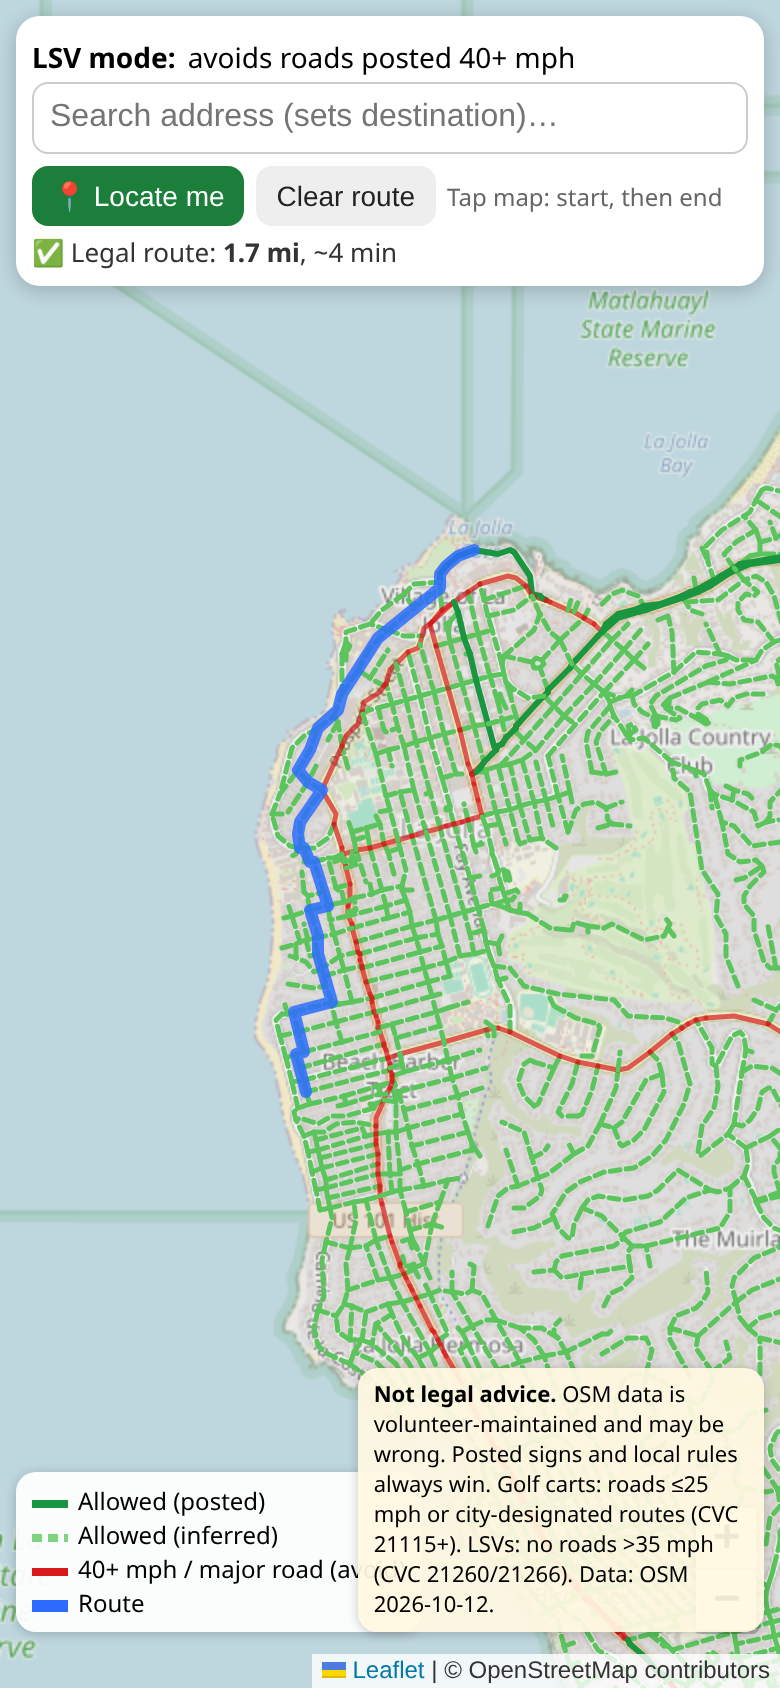
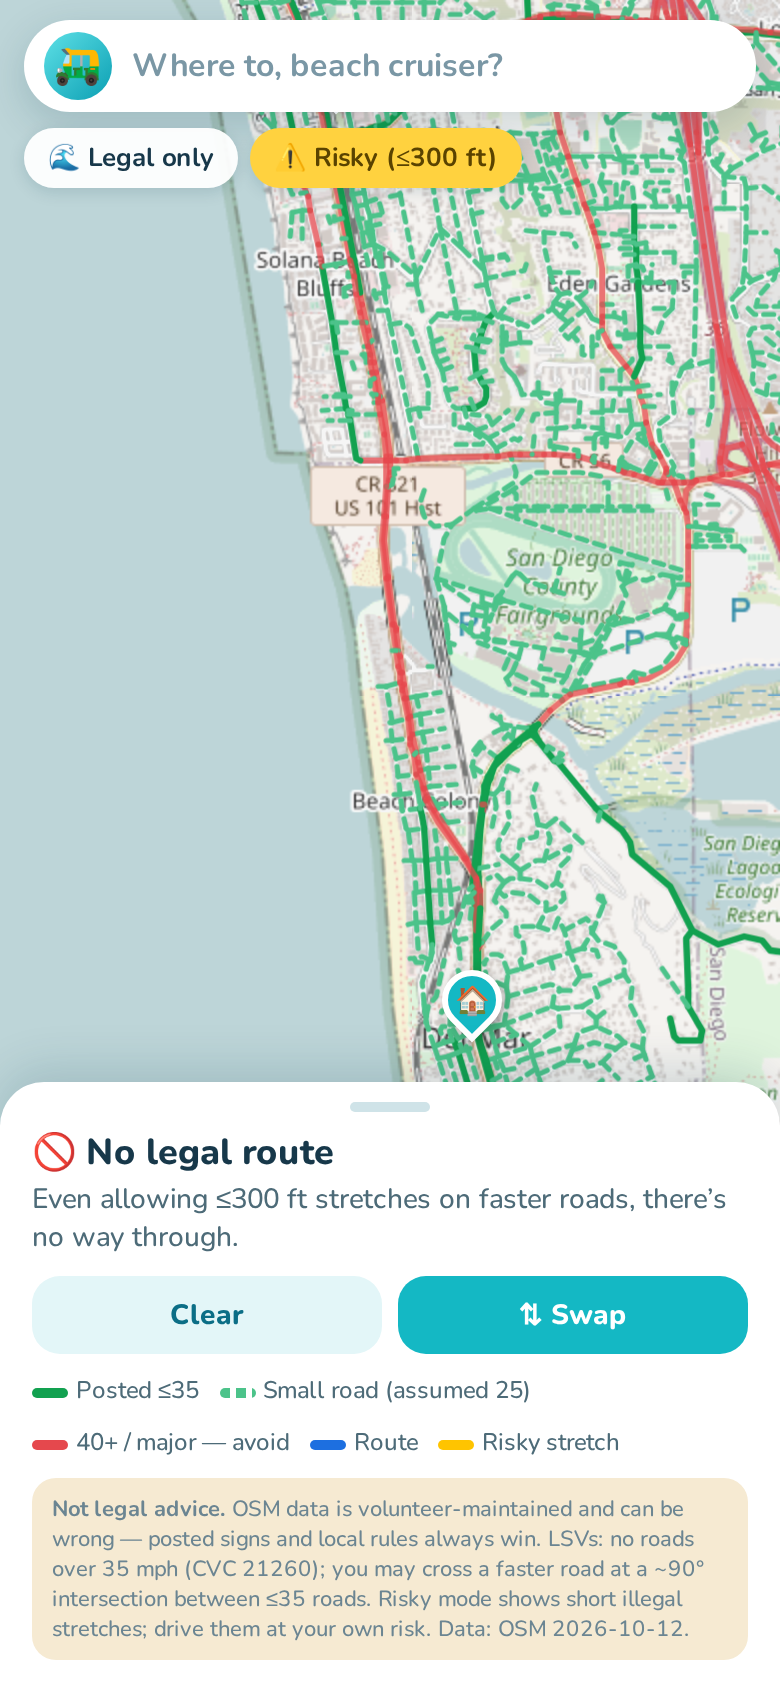
v1.3: risky mode (<=300ft forbidden stretches), beachy UI refresh, legal notes

diff --git a/public/app.js b/public/app.js
@@ -1,63 +1,84 @@
-const map=L.map('map',{preferCanvas:true,zoomControl:false}).setView([32.84,-117.27],13);
-L.control.zoom({position:'bottomright'}).addTo(map);
-L.tileLayer('https://tile.openstreetmap.org/{z}/{x}/{y}.png',{maxZoom:19,opacity:.6,attribution:'© OpenStreetMap contributors'}).addTo(map);
+const map=L.map('map',{preferCanvas:true,zoomControl:false,attributionControl:true}).setView([32.84,-117.27],14);
+L.tileLayer('https://tile.openstreetmap.org/{z}/{x}/{y}.png',{maxZoom:19,attribution:'© OpenStreetMap contributors'}).addTo(map);
 const renderer=L.canvas({tolerance:8});
-let D,mode=39,allowUnk=false,layer,nodes={},adj={},start=null,end=null,routeLine,mk=[];
-const $=id=>document.getElementById(id), st=t=>$('status').innerHTML=t;
-// status: 0 allowed posted, 1 allowed inferred, 2 unknown, 3 forbidden
-function cls(s){const sp=s[2],src=s[3];if(sp==null)return 2;if(sp>mode)return 3;return src==='t'?0:1}
-const STY=[{color:'#1a9641',weight:3},{color:'#5cc45c',weight:2.5,dashArray:'5 3'},{color:'#f0a500',weight:3},{color:'#d7191c',weight:2.5,opacity:.7}];
+const $=id=>document.getElementById(id);
+const RISKY_MAX=91.44; // 300 ft
+let D,risky=false,layer,nodes={},adj={},start=null,end=null,routeG=null,mk=[];
+// cls: 0 posted ok, 1 assumed ok, 3 forbidden (posted >=40 or untagged major)
+const cls=s=>(s[2]==null||s[2]>35)?3:(s[3]==='t'?0:1);
+const STY=[{color:'#12a150',weight:3.2},{color:'#4cc38a',weight:2.6,dashArray:'5 4'},null,{color:'#e5484d',weight:3,opacity:.75}];
 const MAJOR=new Set(['motorway','motorway_link','trunk','trunk_link','primary','primary_link','secondary','secondary_link','tertiary','tertiary_link']);
 let buckets={},shown={};const G=0.02;
 function bucketize(){D.segs.forEach((s,i)=>{const p=s[7][0],k=Math.floor(p[0]/G)+','+Math.floor(p[1]/G);(buckets[k]||(buckets[k]=[])).push(i)})}
-function draw(){if(layer)map.removeLayer(layer);layer=L.layerGroup().addTo(map);shown={};refresh();buildGraph();if(start&&end)route()}
+function draw(){layer=L.layerGroup().addTo(map);refresh()}
 function refresh(){const b=map.getBounds().pad(0.2),z=map.getZoom(),minor=z>=14;
- const x0=Math.floor(b.getWest()/G),x1=Math.floor(b.getEast()/G),y0=Math.floor(b.getSouth()/G),y1=Math.floor(b.getNorth()/G);const want={};
+ const x0=Math.floor(b.getWest()/G),x1=Math.floor(b.getEast()/G),y0=Math.floor(b.getSouth()/G),y1=Math.floor(b.getNorth()/G),want={};
  for(let x=x0;x<=x1;x++)for(let y=y0;y<=y1;y++){const k=x+','+y;if(buckets[k])want[k+(minor?'m':'')]=k}
  for(const k in shown)if(!(k in want)){layer.removeLayer(shown[k]);delete shown[k]}
  for(const k in want)if(!shown[k]){const g=L.layerGroup();for(const i of buckets[want[k]]){const s=D.segs[i];if(!minor&&!MAJOR.has(s[1]))continue;g.addLayer(mkLine(s))}shown[k]=g;layer.addLayer(g)}}
 map.on('moveend',()=>{if(D)refresh()});
-function mkLine(s){{const c=cls(s);const pl=L.polyline(s[7].map(p=>[p[1],p[0]]),{...STY[c],renderer});pl._s=s;
-  pl.on('click',e=>{L.DomEvent.stopPropagation(e);const sp=s[2];const lbl=['Allowed (posted limit)','Allowed (limit inferred)','Unknown – speed limit not recorded','Not allowed (40+ mph or major road)'][cls(s)];
-   L.popup().setLatLng(e.latlng).setContent(`<b>${D.names[s[0]]||'(unnamed)'}</b><br>Type: ${s[1]}<br>Speed: ${sp==null?'not tagged':sp==99?'not tagged (major road, assumed >35)':sp+' mph'}<br>Source: ${s[3]==='t'?'OSM maxspeed tag':sp==null?'—':'inferred from road type'}<br><b>${lbl}</b>`).openOn(map)});
-  return pl}}
+function mkLine(s){const c=cls(s);const pl=L.polyline(s[7].map(p=>[p[1],p[0]]),{...STY[c],renderer});
+ pl.on('click',e=>{L.DomEvent.stopPropagation(e);const sp=s[2];
+  L.popup().setLatLng(e.latlng).setContent(`<b>${D.names[s[0]]||'(unnamed road)'}</b><br>${s[1].replace('_',' ')} · ${sp==null||sp==99?'no limit recorded':sp+' mph'}${s[3]==='t'?'':' (assumed)'}<br><b style="color:${c===3?'#e5484d':'#12a150'}">${c===3?'Avoid: 40+ mph or major road':'OK for LSV'}</b>`).openOn(map)});return pl}
 function hav(a,b){const R=6371000,r=Math.PI/180,dl=(b[1]-a[1])*r,dn=(b[0]-a[0])*r,x=Math.sin(dl/2)**2+Math.cos(a[1]*r)*Math.cos(b[1]*r)*Math.sin(dn/2)**2;return 2*R*Math.asin(Math.sqrt(x))}
 function len(p){let l=0;for(let i=1;i<p.length;i++)l+=hav(p[i-1],p[i]);return l}
-let fast=new Set();function buildGraph(){adj={};nodes={};fast=new Set();D.segs.forEach(s=>{if(s[3]==='t'&&s[2]>=40){fast.add(s[5]);fast.add(s[6])}});
- D.segs.forEach((s,i)=>{const c=cls(s);if(c===3||(c===2&&!allowUnk))return;const a=s[5],b=s[6],p=s[7];
-  nodes[a]=p[0];nodes[b]=p[p.length-1];const L_=s._len??(s._len=len(p));
-  if(s[4]>=0)(adj[a]||(adj[a]=[])).push([b,L_,i,false]);if(s[4]<=0)(adj[b]||(adj[b]=[])).push([a,L_,i,true])})}
-function nearest(ll){let best=null,bd=1e18;for(const k in nodes){if(!adj[k])continue;const d=hav([ll.lng,ll.lat],nodes[k]);if(d<bd){bd=d;best=k}}return [best,bd]}
-// A* with binary heap
-function astar(s,t){const g={[s]:0},prev={},T=nodes[t],h=[[hav(nodes[s],T),s]];const done=new Set();
+let fast=new Set();
+function buildGraph(){adj={};nodes={};fast=new Set();
+ D.segs.forEach((s,i)=>{const c=cls(s),a=s[5],b=s[6],p=s[7];s._len??=len(p);nodes[a]=p[0];nodes[b]=p[p.length-1];
+  if(s[3]==='t'&&s[2]>=40){fast.add(a);fast.add(b)}
+  const f=c===3;
+  if(s[4]>=0)(adj[a]||(adj[a]=[])).push([b,s._len,i,false,f]);if(s[4]<=0)(adj[b]||(adj[b]=[])).push([a,s._len,i,true,f])})}
+function nearest(ll){let best=null,bd=1e18;const q=[ll.lng,ll.lat];for(const k in nodes){if(!(adj[k]||[]).some(e=>!e[4]))continue;const d=hav(q,nodes[k]);if(d<bd){bd=d;best=+k}}return [best,bd]}
+// A* over (node, metres-of-current-forbidden-run). Legal mode: forbidden edges never used.
+// Crossing a forbidden road = passing through a shared node between two allowed edges (CVC 21260(b)(1)).
+function astar(s,t){const key=(n,r)=>n+'|'+Math.round(r);const T=nodes[t];const g=new Map(),prev=new Map();const k0=key(s,0);g.set(k0,0);
+ const h=[[hav(nodes[s],T),s,0,k0]],done=new Set();
  const push=x=>{h.push(x);let i=h.length-1;while(i>0){const p=(i-1)>>1;if(h[p][0]<=h[i][0])break;[h[p],h[i]]=[h[i],h[p]];i=p}};
  const pop=()=>{const top=h[0],l=h.pop();if(h.length){h[0]=l;let i=0;for(;;){let a=2*i+1,b=a+1,m=i;if(a<h.length&&h[a][0]<h[m][0])m=a;if(b<h.length&&h[b][0]<h[m][0])m=b;if(m===i)break;[h[m],h[i]]=[h[i],h[m]];i=m}}return top};
- while(h.length){const [,u]=pop();if(u==t)break;if(done.has(u))continue;done.add(u);
-  for(const [v,w,si,rev] of adj[u]||[]){const ng=g[u]+w+(fast.has(+v)?150:0);if(g[v]===undefined||ng<g[v]){g[v]=ng;prev[v]=[u,si,rev];push([ng+hav(nodes[v],T),v])}}}
- if(g[t]===undefined)return null;const pts=[];let x=t;while(x!=s){const [u,si,rev]=prev[x];let p=D.segs[si][7];if(!rev)p=p.slice().reverse();pts.push(...p);x=u}
- pts.reverse();return {dist:len(pts),pts}}
-function route(){if(routeLine)map.removeLayer(routeLine);const [a,da]=nearest(start),[b,db]=nearest(end);
- if(!a||!b){st('No legal roads nearby.');return}
- const r=astar(a,b);if(!r){st(`❌ No legal route in <b>${'LSV'}</b> mode.`);return null}
- routeLine=L.polyline(r.pts.map(p=>[p[1],p[0]]),{color:'#2b6cff',weight:6,opacity:.85}).addTo(map);
- const mi=r.dist/1609.34,min=mi/(25)*60;
- st(`✅ Legal route: <b>${mi.toFixed(1)} mi</b>, ~${Math.round(min)} min${da>150||db>150?' (start/end snapped to nearest legal road)':''}`);
- window.lastRoute={mi,min};return r}
-function setPt(ll){if(!start||end){clearR();start=ll;mk.push(L.marker(ll).addTo(map).bindTooltip('Start'));st('Now tap the destination.')}
- else{end=ll;mk.push(L.marker(ll).addTo(map).bindTooltip('End'));route()}}
-function clearR(){start=end=null;mk.forEach(m=>map.removeLayer(m));mk=[];if(routeLine)map.removeLayer(routeLine);routeLine=null;st('Tap map to set start.')}
-map.on('click',e=>setPt(e.latlng));
-$('clr').onclick=clearR;
-
-
+ let goal=null;
+ while(h.length){const [,u,run,ku]=pop();if(done.has(ku))continue;done.add(ku);if(u===t&&run===0){goal=ku;break}
+  for(const [v,w,si,rev,f] of adj[u]||[]){let nr,cost=w;
+   if(f){if(!risky)continue;nr=run+w;if(nr>RISKY_MAX)continue;cost=w*6+60}else{nr=0;if(fast.has(v))cost+=150}
+   const kv=key(v,nr),ng=g.get(ku)+cost;if(!g.has(kv)||ng<g.get(kv)){g.set(kv,ng);prev.set(kv,[ku,si,rev]);push([ng+hav(nodes[v],T),v,nr,kv])}}}
+ if(!goal)return null;const parts=[];let x=goal;while(x!==k0){const [pk,si,rev]=prev.get(x);parts.push([si,rev]);x=pk}parts.reverse();return parts}
+function summarize(parts){let dist=0,stretches=[],cur=null,line=[];const legs=[];
+ for(const [si,rev] of parts){const s=D.segs[si];let p=s[7];if(rev)p=p.slice().reverse();dist+=s._len;const f=cls(s)===3;
+  legs.push({p,f,s});
+  if(f){if(!cur){cur={len:0,name:D.names[s[0]]||'unnamed road',sp:s[2],p:[]};stretches.push(cur)}cur.len+=s._len;cur.p.push(...p)}else cur=null}
+ // turn-by-turn by street name
+ const steps=[];for(const l of legs){const n=D.names[l.s[0]]||'unnamed road';const last=steps[steps.length-1];if(last&&last.n===n&&last.f===l.f)last.d+=l.s._len;else steps.push({n,d:l.s._len,f:l.f,sp:l.s[2]})}
+ return {dist,stretches,legs,steps}}
+const ft=m=>Math.round(m*3.281)+' ft',mi=m=>(m/1609.34).toFixed(1)+' mi';
+function route(){if(routeG)map.removeLayer(routeG);routeG=null;const [a,da]=nearest(start),[b,db]=nearest(end);
+ const parts=a!=null&&b!=null?astar(a,b):null;$('acts').style.display='flex';
+ if(!parts){$('title').innerHTML='🚫 No legal route';$('sub').innerHTML=risky?'Even allowing ≤300 ft stretches on faster roads, there’s no way through.':'Every way there uses a 40+ mph road. Try <b>⚠ Risky</b> mode to see short-stretch options.';$('steps').innerHTML='';return null}
+ const r=summarize(parts);routeG=L.layerGroup().addTo(map);
+ const all=[];r.legs.forEach(l=>all.push(...l.p));
+ L.polyline(all.map(p=>[p[1],p[0]]),{color:'#fff',weight:10,opacity:.9}).addTo(routeG);
+ L.polyline(all.map(p=>[p[1],p[0]]),{color:'#1d6fe0',weight:6}).addTo(routeG);
+ r.stretches.forEach(s=>L.polyline(s.p.map(p=>[p[1],p[0]]),{color:'#ffc400',weight:8}).addTo(routeG).bindTooltip(`Risky: ${ft(s.len)} on ${s.name}`));
+ const min=Math.max(1,Math.round(r.dist/1609.34/22*60));
+ $('title').innerHTML=r.stretches.length?`⚠ ${min} min · ${mi(r.dist)}`:`🛺 ${min} min · ${mi(r.dist)}`;
+ $('sub').innerHTML=r.stretches.length?`Includes <b>${r.stretches.length}</b> risky stretch${r.stretches.length>1?'es':''} (${r.stretches.map(s=>ft(s.len)).join(', ')}) on faster roads.`:'All on roads ≤35 mph 🌴'+(da>150||db>150?' · snapped to nearest legal road':'');
+ $('steps').innerHTML=r.steps.filter(s=>s.d>15).map(s=>`<div class="st"><span class="badge ${s.f?'y':''}">${s.f?ft(s.d):mi(s.d)}</span><span>${s.f?'⚠ Risky: ':''}${s.n}${s.f&&s.sp&&s.sp!=99?` (${s.sp} mph)`:''}</span></div>`).join('');
+ window.lastRoute={mi:+(r.dist/1609.34).toFixed(2),min,risky:r.stretches.map(s=>({road:s.name,ft:Math.round(s.len*3.281)}))};return r}
+const pinIcon=(c,e)=>L.divIcon({className:'',html:`<div class="pin" style="background:${c}"><span>${e}</span></div>`,iconSize:[30,30],iconAnchor:[15,30]});
+function setPt(ll){if(!start||end){clearR();start=ll;mk.push(L.marker(ll,{icon:pinIcon('#14b8c4','🏠')}).addTo(map));$('title').innerHTML='📍 Start set';$('sub').textContent='Tap the map or search for where you’re headed.'}
+ else{end=ll;mk.push(L.marker(ll,{icon:pinIcon('#ff7a59','🏖')}).addTo(map));route()}}
+function clearR(){start=end=null;mk.forEach(m=>map.removeLayer(m));mk=[];if(routeG)map.removeLayer(routeG);routeG=null;$('steps').innerHTML='';$('acts').style.display='none';$('title').innerHTML='🏖 Golf Cart Maps';$('sub').textContent='Tap the map to set a start, or hit 📍.'}
+map.on('click',e=>setPt(e.latlng));$('clr').onclick=clearR;
+$('swap').onclick=()=>{if(start&&end){const a=end,b=start;clearR();setPt(a);setPt(b)}};
+function setRisky(v){risky=v;$('cRisk').classList.toggle('on',v);$('cNorm').classList.toggle('on',!v);if(start&&end)route()}
+$('cNorm').onclick=()=>setRisky(false);$('cRisk').onclick=()=>setRisky(true);
+let legendOn=true;$('lay').onclick=()=>{legendOn=!legendOn;$('legend').style.display=$('disc').style.display=legendOn?'':'none'};
 let me;$('loc').onclick=()=>navigator.geolocation.getCurrentPosition(p=>{const ll=L.latLng(p.coords.latitude,p.coords.longitude);
- if(me)map.removeLayer(me);me=L.circleMarker(ll,{radius:8,color:'#fff',fillColor:'#2b6cff',fillOpacity:1,weight:3}).addTo(map);map.setView(ll,16);
- clearR();start=ll;mk.push(L.marker(ll).addTo(map).bindTooltip('Start (you)'));st('Start = your location. Tap or search a destination.')},e=>st('Location unavailable: '+e.message),{enableHighAccuracy:true});
+ if(me)map.removeLayer(me);me=L.circleMarker(ll,{radius:8,color:'#fff',fillColor:'#1d6fe0',fillOpacity:1,weight:3}).addTo(map);map.setView(ll,16);clearR();start=ll;
+ mk.push(L.marker(ll,{icon:pinIcon('#14b8c4','🛺')}).addTo(map));$('title').innerHTML='📍 Starting from you';$('sub').textContent='Tap or search a destination.'},e=>{$('sub').textContent='Location unavailable: '+e.message},{enableHighAccuracy:true});
 let tmr,lastQ=0;$('q').oninput=e=>{clearTimeout(tmr);const v=e.target.value.trim();if(v.length<4){$('sugg').style.display='none';return}
- tmr=setTimeout(async()=>{const wait=Math.max(0,1100-(Date.now()-lastQ));await new Promise(r=>setTimeout(r,wait));lastQ=Date.now();
-  const b=D.meta.bbox;const r=await fetch(`https://nominatim.openstreetmap.org/search?format=json&limit=5&bounded=1&viewbox=${b[1]},${b[2]},${b[3]},${b[0]}&q=${encodeURIComponent(v)}`);
-  const j=await r.json();const sg=$('sugg');sg.innerHTML='';sg.style.display=j.length?'block':'none';
-  j.forEach(x=>{const d=document.createElement('div');d.textContent=x.display_name;d.onclick=()=>{sg.style.display='none';$('q').value=x.display_name.split(',')[0];
-   const ll=L.latLng(+x.lat,+x.lon);map.setView(ll,15);if(start&&!end)setPt(ll);else if(start&&end){end=null;mk.pop()&&0;setPt(ll)}else{setPt(ll);st('Start set from search. Tap or search destination, or 📍 for your location.')}};sg.appendChild(d)})},700)};
-window.testRoute=(a,b)=>{buildGraph();clearR();start=L.latLng(a);end=L.latLng(b);const r=route();return r?{mi:+(r.dist/1609.34).toFixed(2),min:Math.round(window.lastRoute.min)}:null};
-fetch('data/roads.json').then(r=>r.json()).then(j=>{D=j;const s=j.meta.stats;$('dmeta').textContent=`Data: OSM ${j.meta.generated}.`;bucketize();draw();st('Tap map to set start, or 📍 Locate me.');window.ready=true});
+ tmr=setTimeout(async()=>{await new Promise(r=>setTimeout(r,Math.max(0,1100-(Date.now()-lastQ))));lastQ=Date.now();const b=D.meta.bbox;
+  const j=await (await fetch(`https://nominatim.openstreetmap.org/search?format=json&limit=5&bounded=1&viewbox=${b[1]},${b[2]},${b[3]},${b[0]}&q=${encodeURIComponent(v)}`)).json();
+  const sg=$('sugg');sg.innerHTML='';sg.style.display=j.length?'block':'none';
+  j.forEach(x=>{const d=document.createElement('div');d.textContent='📍 '+x.display_name.split(',').slice(0,3).join(',');d.onclick=()=>{sg.style.display='none';$('q').value=x.display_name.split(',')[0];$('q').blur();
+   const ll=L.latLng(+x.lat,+x.lon);map.setView(ll,15);if(start&&end){const s=start;clearR();setPt(s)}setPt(ll)};sg.appendChild(d)})},700)};
+window.testRoute=(a,b,rk=false)=>{risky=rk;clearR();start=L.latLng(a);mk.push(L.marker(start,{icon:pinIcon('#14b8c4','🏠')}).addTo(map));end=L.latLng(b);mk.push(L.marker(end,{icon:pinIcon('#ff7a59','🏖')}).addTo(map));const r=route();return r?window.lastRoute:null};
+fetch('data/roads.json').then(r=>r.json()).then(j=>{D=j;$('dmeta').textContent=`Data: OSM ${j.meta.generated}.`;bucketize();buildGraph();draw();clearR();window.ready=true});

diff --git a/public/index.html b/public/index.html
@@ -1,36 +1,54 @@
 <!doctype html><html lang="en"><head><meta charset="utf-8">
 <meta name="viewport" content="width=device-width,initial-scale=1,viewport-fit=cover">
 <title>Golf Cart Maps</title><link rel="manifest" href="manifest.webmanifest">
-<meta name="theme-color" content="#1b7f3b"><meta name="apple-mobile-web-app-capable" content="yes">
+<meta name="theme-color" content="#e8f7f8"><meta name="apple-mobile-web-app-capable" content="yes"><meta name="apple-mobile-web-app-status-bar-style" content="default">
 <link rel="apple-touch-icon" href="icon-192.png">
+<link rel="preconnect" href="https://fonts.googleapis.com"><link href="https://fonts.googleapis.com/css2?family=Nunito:wght@500;700;800&display=swap" rel="stylesheet">
 <link rel="stylesheet" href="https://unpkg.com/leaflet@1.9.4/dist/leaflet.css">
 <style>
-html,body{margin:0;height:100%;font-family:-apple-system,system-ui,sans-serif}
-#map{position:absolute;inset:0}
-#panel{position:absolute;z-index:1000;top:env(safe-area-inset-top,0);left:0;right:0;margin:8px;background:#fff;border-radius:12px;box-shadow:0 2px 10px #0003;padding:8px;font-size:14px}
-#panel input[type=text]{width:100%;box-sizing:border-box;padding:8px;font-size:16px;border:1px solid #ccc;border-radius:8px;margin:2px 0}
-.row{display:flex;gap:6px;align-items:center;flex-wrap:wrap;margin-top:4px}
-button{padding:7px 10px;border:0;border-radius:8px;background:#1b7f3b;color:#fff;font-size:14px}
-button.alt{background:#eee;color:#222}.seg button{background:#eee;color:#222}.seg button.on{background:#1b7f3b;color:#fff}
-#sugg{background:#fff;border:1px solid #ddd;border-radius:8px;max-height:180px;overflow:auto;display:none}
-#sugg div{padding:6px;border-bottom:1px solid #eee}
-#legend{position:absolute;z-index:1000;bottom:28px;left:8px;background:#fffe;border-radius:10px;padding:6px 8px;font-size:12px;box-shadow:0 1px 6px #0003}
-.sw{display:inline-block;width:18px;height:4px;margin-right:5px;vertical-align:middle}
-#disc{position:absolute;z-index:1000;bottom:28px;right:8px;max-width:48%;background:#fff8e1ee;border-radius:10px;padding:6px 8px;font-size:11px;box-shadow:0 1px 6px #0003}
-#status{font-size:13px;color:#333;margin-top:4px}
+:root{--aqua:#14b8c4;--deep:#0b6e86;--sand:#f6ead2;--ink:#17384a;--sh:0 6px 20px rgba(11,60,80,.18);--sat:env(safe-area-inset-top,0px);--sab:env(safe-area-inset-bottom,0px)}
+*{box-sizing:border-box}html,body{margin:0;height:100%;font-family:Nunito,-apple-system,system-ui,sans-serif;color:var(--ink);-webkit-tap-highlight-color:transparent}
+#map{position:absolute;inset:0;background:#cdeef3}
+.leaflet-tile-pane{filter:saturate(.55) brightness(1.06) hue-rotate(-8deg) contrast(.92)}
+#top{position:absolute;z-index:1000;top:calc(var(--sat) + 10px);left:12px;right:12px}
+#bar{display:flex;align-items:center;gap:8px;background:#fff;border-radius:28px;box-shadow:var(--sh);padding:6px 6px 6px 10px}
+#logo{width:34px;height:34px;border-radius:50%;background:linear-gradient(135deg,#5ee0e6,#0b9fb3);display:grid;place-items:center;font-size:19px;flex:none}
+#q{flex:1;border:0;outline:0;font:600 16px Nunito,sans-serif;color:var(--ink);background:transparent;min-width:0}
+#q::placeholder{color:#7a97a5}
+#sugg{margin-top:6px;background:#fff;border-radius:16px;box-shadow:var(--sh);overflow:hidden;display:none}
+#sugg div{padding:11px 14px;border-bottom:1px solid #eef5f7;font-size:14px}#sugg div:last-child{border:0}
+#chips{display:flex;gap:6px;margin-top:8px}
+.chip{background:#fffffff0;border-radius:18px;padding:6px 12px;font:700 13px Nunito;box-shadow:0 2px 8px rgba(11,60,80,.15);border:0;color:var(--ink)}
+.chip.on{background:#ffd23f;color:#5a4300}
+.fab{position:absolute;z-index:1000;right:12px;width:50px;height:50px;border-radius:50%;background:#fff;border:0;box-shadow:var(--sh);font-size:21px;display:grid;place-items:center}
+#loc{bottom:calc(var(--sab) + 190px)}#lay{bottom:calc(var(--sab) + 250px)}
+#sheet{position:absolute;z-index:1001;left:0;right:0;bottom:0;background:#fff;border-radius:22px 22px 0 0;box-shadow:0 -6px 24px rgba(11,60,80,.16);padding:8px 16px calc(var(--sab) + 14px);max-height:55%;overflow:auto;transition:max-height .25s}
+#sheet .grab{width:40px;height:5px;border-radius:3px;background:#cfe3e8;margin:2px auto 8px}
+#title{font:800 18px Nunito;display:flex;align-items:center;gap:8px}
+#sub{font-size:14px;color:#4d6b78;margin-top:2px}
+#steps{margin-top:8px}#steps .st{display:flex;gap:10px;padding:8px 0;border-top:1px solid #eef5f7;font-size:14px}
+.badge{flex:none;border-radius:10px;padding:1px 8px;font-size:12px;font-weight:800;background:#e3f6f8;color:var(--deep)}.badge.y{background:#fff3c4;color:#7a5a00}
+#legend{display:flex;flex-wrap:wrap;gap:10px;margin-top:10px;font-size:12px;color:#4d6b78}
+.sw{display:inline-block;width:18px;height:5px;border-radius:3px;margin-right:4px;vertical-align:middle}
+#disc{margin-top:10px;font-size:11px;color:#6b8592;background:var(--sand);border-radius:12px;padding:8px 10px}
+#wave{position:absolute;left:0;right:0;top:-14px;height:14px;pointer-events:none;background:radial-gradient(circle at 10px -4px,transparent 12px,#fff 13px) repeat-x;background-size:20px 14px;display:none}
+.btnrow{display:flex;gap:8px;margin-top:10px}.btn{flex:1;border:0;border-radius:14px;padding:10px;font:800 14px Nunito;background:var(--aqua);color:#fff}.btn.alt{background:#e3f6f8;color:var(--deep)}
+.leaflet-control-attribution{font-size:10px;margin-bottom:calc(var(--sab) + 150px)!important;border-radius:8px 0 0 8px}
+.pin{width:30px;height:30px;border-radius:50% 50% 50% 0;transform:rotate(-45deg);border:3px solid #fff;box-shadow:0 3px 8px #0004}
+.pin span{display:block;transform:rotate(45deg);text-align:center;line-height:24px;font-size:14px}
 </style></head><body>
 <div id="map"></div>
-<div id="panel">
- <div class="row"><b>LSV mode:</b> avoids roads posted 40+ mph</div>
- <input type="text" id="q" placeholder="Search address (sets destination)…" autocomplete="off"><div id="sugg"></div>
- <div class="row"><button id="loc">📍 Locate me</button><button class="alt" id="clr">Clear route</button><span style="font-size:12px;color:#666">Tap map: start, then end</span></div>
- <div id="status">Loading road data…</div>
+<div id="top"><div id="bar"><div id="logo">🛺</div><input id="q" placeholder="Where to, beach cruiser?" autocomplete="off"></div>
+<div id="sugg"></div>
+<div id="chips"><button class="chip on" id="cNorm">🌊 Legal only</button><button class="chip" id="cRisk">⚠ Risky (≤300 ft)</button></div></div>
+<button class="fab" id="lay" title="Legend">🗺</button><button class="fab" id="loc" title="Locate me">📍</button>
+<div id="sheet"><div class="grab"></div>
+<div id="title">🏖 Golf Cart Maps</div><div id="sub">Loading roads…</div>
+<div id="steps"></div>
+<div class="btnrow" id="acts" style="display:none"><button class="btn alt" id="clr">Clear</button><button class="btn" id="swap">⇅ Swap</button></div>
+<div id="legend"><span><i class="sw" style="background:#12a150"></i>Posted ≤35</span><span><i class="sw" style="background:repeating-linear-gradient(90deg,#4cc38a 0 5px,transparent 5px 8px)"></i>Small road (assumed 25)</span><span><i class="sw" style="background:#e5484d"></i>40+ / major — avoid</span><span><i class="sw" style="background:#1d6fe0"></i>Route</span><span><i class="sw" style="background:#ffc400"></i>Risky stretch</span></div>
+<div id="disc"><b>Not legal advice.</b> OSM data is volunteer-maintained and can be wrong — posted signs and local rules always win. LSVs: no roads over 35 mph (CVC 21260); you may cross a faster road at a ~90° intersection between ≤35 roads. Risky mode shows short illegal stretches; drive them at your own risk. <span id="dmeta"></span></div>
 </div>
-<div id="legend"><div><span class="sw" style="background:#1a9641"></span>Allowed (posted)</div>
-<div><span class="sw" style="background:repeating-linear-gradient(90deg,#7fd47f 0 5px,transparent 5px 8px)"></span>Allowed (inferred)</div>
-<div><span class="sw" style="background:#d7191c"></span>40+ mph / major road (avoid)</div>
-<div><span class="sw" style="background:#2b6cff;height:6px"></span>Route</div></div>
-<div id="disc"><b>Not legal advice.</b> OSM data is volunteer-maintained and may be wrong. Posted signs and local rules always win. Golf carts: roads ≤25 mph or city-designated routes (CVC 21115+). LSVs: no roads &gt;35 mph (CVC 21260/21266). <span id="dmeta"></span></div>
 <script src="https://unpkg.com/leaflet@1.9.4/dist/leaflet.js"></script>
 <script src="app.js"></script>
 <script>if('serviceWorker' in navigator)navigator.serviceWorker.register('sw.js')</script>

diff --git a/public/sw.js b/public/sw.js
@@ -1,2 +1,2 @@
-const C='gcm-v1';self.addEventListener('install',e=>self.skipWaiting());
+const C='gcm-v2';self.addEventListener('install',e=>self.skipWaiting());
 self.addEventListener('fetch',e=>{if(e.request.method!=='GET')return;e.respondWith(fetch(e.request).then(r=>{const c=r.clone();caches.open(C).then(x=>x.put(e.request,c));return r}).catch(()=>caches.match(e.request)))});

diff --git a/scripts/test.py b/scripts/test.py
@@ -3,6 +3,9 @@ R={"cove_windansea":([32.8506,-117.2717],[32.8305,-117.2805]),"delmar15_solana":
 with sync_playwright() as p:
     b=p.chromium.launch();pg=b.new_page(viewport={"width":390,"height":844},device_scale_factor=2)
     pg.goto("http://localhost:8765/");pg.wait_for_function("window.ready===true",timeout=120000)
-    for k,(a,c) in R.items(): print(k,pg.evaluate(f"testRoute({a},{c})"))
-    pg.evaluate("testRoute([32.8506,-117.2717],[32.8305,-117.2805]);map.fitBounds([[32.826,-117.285],[32.853,-117.268]]);0");pg.wait_for_timeout(4000)
-    pg.screenshot(path="/workspace/golfcart-maps/screenshot.png");b.close()
+    for k,(a,c) in R.items():
+        for rk in (False,True): print(k,"risky" if rk else "legal",pg.evaluate(f"testRoute({a},{c},{str(rk).lower()})"))
+    pg.evaluate("testRoute([32.9598,-117.2655],[32.9932,-117.2713],true);document.getElementById('cRisk').classList.add('on');document.getElementById('cNorm').classList.remove('on');map.fitBounds([[32.955,-117.28],[32.996,-117.258]],{paddingBottomRight:[0,250]});0");pg.wait_for_timeout(5000)
+    pg.screenshot(path="/workspace/golfcart-maps/screenshot.png")
+    pg.evaluate("setRisky(false);testRoute([32.8506,-117.2717],[32.8305,-117.2805]);map.fitBounds([[32.826,-117.285],[32.853,-117.268]],{paddingBottomRight:[0,250]});0");pg.wait_for_timeout(5000)
+    pg.screenshot(path="/workspace/golfcart-maps/screenshot-cove.png");b.close()
